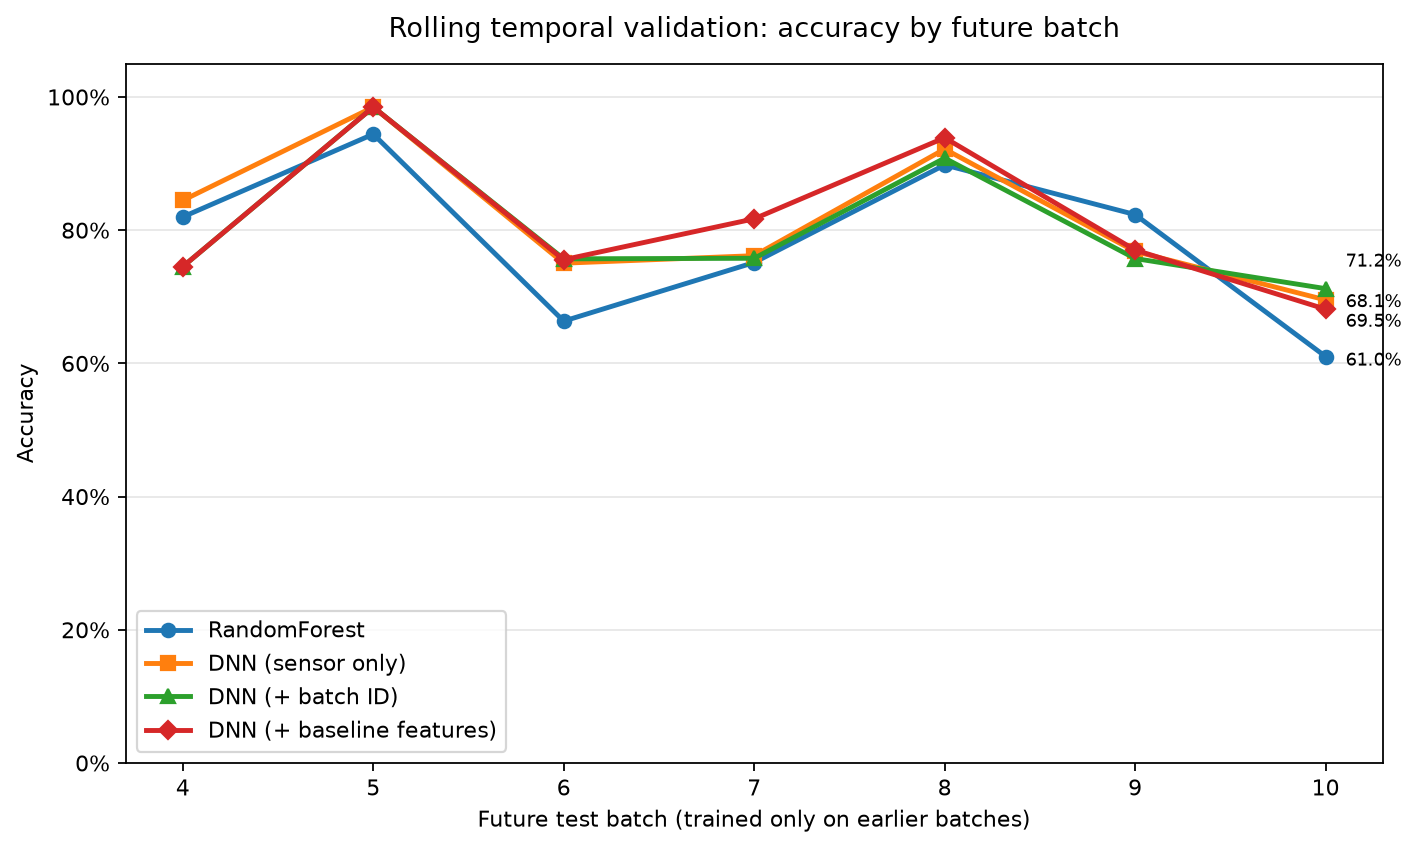
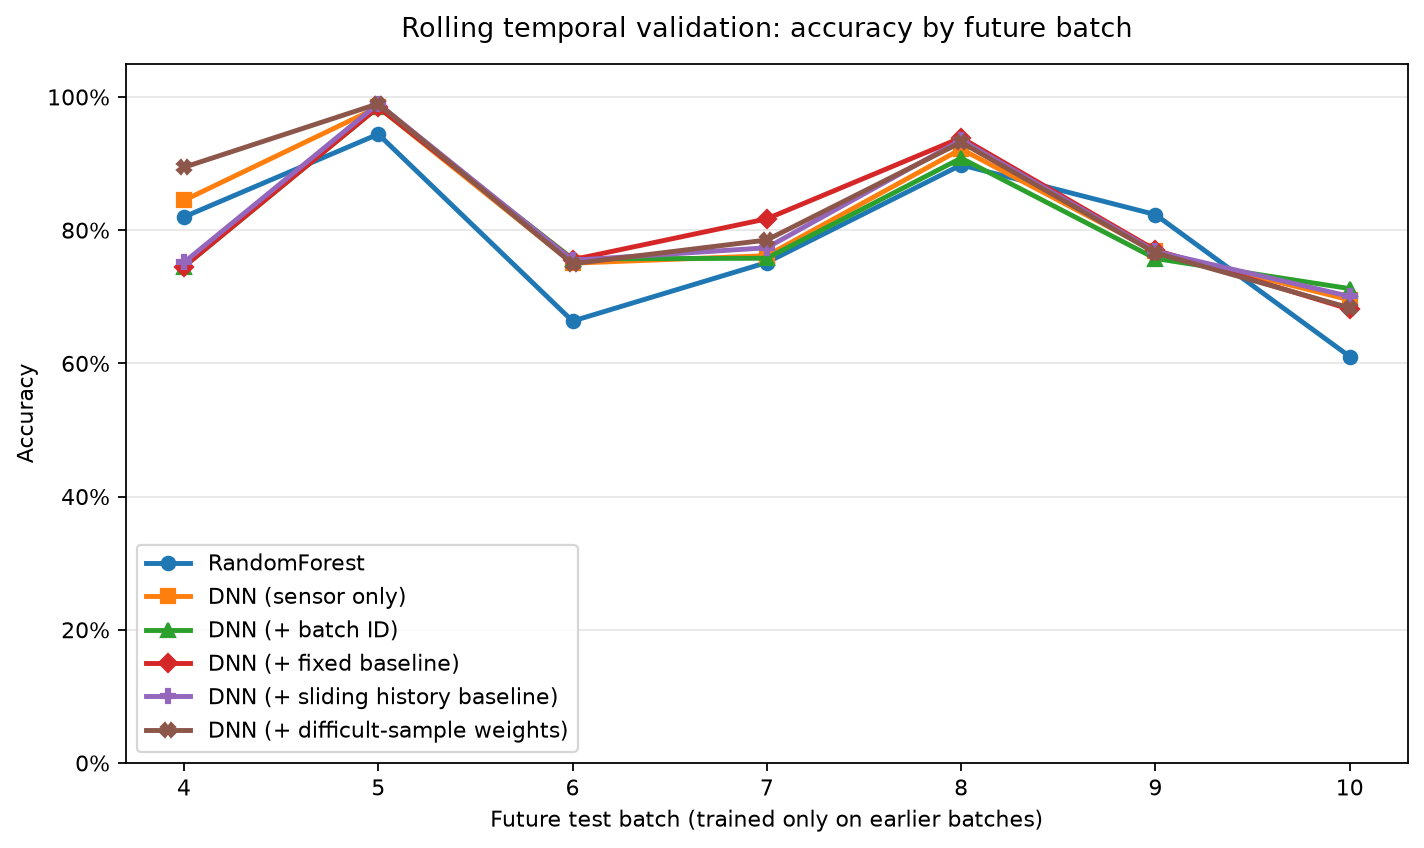
Add sliding baseline and weighted DNN experiments

diff --git a/run_drift_experiments.py b/run_drift_experiments.py
@@ -6,6 +6,10 @@ Models:
   dnn_sensor_time  MLP using sensor features plus known batch/time feature
   dnn_sensor_baseline  MLP using raw features plus changes relative to the
                        earliest available sensor baseline
+  dnn_sensor_history_baseline  MLP using raw features plus a sliding baseline
+                               calculated only from earlier historical batches
+  dnn_sensor_weighted  MLP that upweights difficult gases and low-concentration
+                       training samples
 
 The test batches are never included in model fitting or scaler fitting.
 """
@@ -23,6 +27,8 @@ from sklearn.preprocessing import StandardScaler
 
 FEATURES = [f"feature_{i}" for i in range(1, 129)]
 GAS_NAMES = ["Ethanol", "Ethylene", "Ammonia", "Acetaldehyde", "Acetone", "Toluene"]
+DIFFICULT_GASES = {"Ethylene", "Acetone", "Toluene"}
+LOW_CONCENTRATION_PPM = 50.0
 
 def make_model(kind: str):
     if kind == "rf_sensor":
@@ -34,7 +40,33 @@ def make_model(kind: str):
                                max_iter=300, random_state=42))
     ])
 
-def select_x(frame: pd.DataFrame, kind: str, baseline: pd.Series | None = None) -> pd.DataFrame:
+def sliding_history_relative(frame: pd.DataFrame, history: pd.DataFrame, window: int) -> pd.DataFrame:
+    """Return per-sample changes against a baseline from earlier batches only.
+
+    For Batch b, the baseline is the feature-wise median of the latest
+    ``window`` batches strictly earlier than b.  For the first available
+    training batch, its own median is used only as a fallback so feature values
+    remain finite.  Test-batch rows never contribute to any baseline.
+    """
+    if window < 1:
+        raise ValueError("history window must be at least 1")
+    fallback = history.loc[history.batch_id == history.batch_id.min(), FEATURES].median()
+    relative_parts = []
+    for batch in sorted(frame.batch_id.unique()):
+        available = sorted(history.loc[history.batch_id < batch, "batch_id"].unique())
+        chosen = available[-window:]
+        baseline = history.loc[history.batch_id.isin(chosen), FEATURES].median() if chosen else fallback
+        safe_baseline = baseline.replace(0, 1e-8)
+        current = frame.loc[frame.batch_id == batch, FEATURES]
+        relative = current.divide(safe_baseline, axis="columns").subtract(1.0)
+        relative_parts.append(relative)
+    result = pd.concat(relative_parts).reindex(frame.index)
+    result.columns = [f"history_relative_{name}" for name in FEATURES]
+    return result
+
+
+def select_x(frame: pd.DataFrame, kind: str, baseline: pd.Series | None = None,
+             history: pd.DataFrame | None = None, history_window: int = 3) -> pd.DataFrame:
     x = frame[FEATURES].copy()
     if kind == "dnn_sensor_time":
         # Device age/batch is assumed known at inference. It is not fitted using test labels.
@@ -48,16 +80,38 @@ def select_x(frame: pd.DataFrame, kind: str, baseline: pd.Series | None = None) 
         relative = x.divide(safe_baseline, axis="columns").subtract(1.0)
         relative.columns = [f"relative_{name}" for name in FEATURES]
         x = pd.concat([x, relative], axis=1)
+    elif kind == "dnn_sensor_history_baseline":
+        if history is None:
+            raise ValueError("sliding history features require historical training batches")
+        x = pd.concat([x, sliding_history_relative(frame, history, history_window)], axis=1)
     return x
 
-def evaluate(train: pd.DataFrame, test: pd.DataFrame, kind: str, output: Path, tag: str) -> dict:
+
+def difficult_sample_weights(train: pd.DataFrame) -> np.ndarray:
+    """Training-only weights for the error-prone gases and low-ppm samples.
+
+    The rules are fixed before evaluation: Ethylene, Acetone and Toluene get a
+    factor of 2; samples at or below 50 ppm get a further factor of 1.5.  Test
+    labels are never used for fitting or for choosing these weights.
+    """
+    weights = np.ones(len(train), dtype=float)
+    weights[train.gas_name.isin(DIFFICULT_GASES).to_numpy()] *= 2.0
+    weights[(train.concentration_ppm <= LOW_CONCENTRATION_PPM).to_numpy()] *= 1.5
+    return weights
+
+def evaluate(train: pd.DataFrame, test: pd.DataFrame, kind: str, output: Path, tag: str,
+             history_window: int) -> dict:
     model = make_model(kind)
     baseline = None
     if kind == "dnn_sensor_baseline":
         earliest_batch = train.batch_id.min()
         baseline = train.loc[train.batch_id == earliest_batch, FEATURES].median()
-    model.fit(select_x(train, kind, baseline), train["gas_name"])
-    pred = model.predict(select_x(test, kind, baseline))
+    x_train = select_x(train, kind, baseline, history=train, history_window=history_window)
+    if kind == "dnn_sensor_weighted":
+        model.fit(x_train, train["gas_name"], mlp__sample_weight=difficult_sample_weights(train))
+    else:
+        model.fit(x_train, train["gas_name"])
+    pred = model.predict(select_x(test, kind, baseline, history=train, history_window=history_window))
     row = {
         "experiment": tag, "model": kind,
         "train_batches": ",".join(map(str, sorted(train.batch_id.unique()))),
@@ -68,6 +122,9 @@ def evaluate(train: pd.DataFrame, test: pd.DataFrame, kind: str, output: Path, t
     }
     recalls = recall_score(test.gas_name, pred, labels=GAS_NAMES, average=None, zero_division=0)
     row.update({f"recall_{gas}": float(v) for gas, v in zip(GAS_NAMES, recalls)})
+    low_mask = test.concentration_ppm <= LOW_CONCENTRATION_PPM
+    row["low_ppm_n"] = int(low_mask.sum())
+    row["low_ppm_accuracy"] = accuracy_score(test.loc[low_mask, "gas_name"], pred[low_mask]) if low_mask.any() else np.nan
     cm = pd.DataFrame(confusion_matrix(test.gas_name, pred, labels=GAS_NAMES), index=GAS_NAMES, columns=GAS_NAMES)
     cm.to_csv(output / f"confusion_{tag}_{kind}_batch{row['test_batch']}.csv", encoding="utf-8-sig")
 
@@ -79,7 +136,8 @@ def evaluate(train: pd.DataFrame, test: pd.DataFrame, kind: str, output: Path, t
     row["concentration_r2"] = r2_score(test.concentration_ppm, concentration_pred)
     return row
 
-def main(csv_path: Path, output: Path, selected_models: list[str], experiments: list[str], test_batches: list[int]) -> None:
+def main(csv_path: Path, output: Path, selected_models: list[str], experiments: list[str], test_batches: list[int],
+         history_window: int) -> None:
     output.mkdir(parents=True, exist_ok=True)
     df = pd.read_csv(csv_path, encoding="utf-8-sig")
     required = {"batch_id", "gas_name", "concentration_ppm", *FEATURES}
@@ -91,12 +149,12 @@ def main(csv_path: Path, output: Path, selected_models: list[str], experiments: 
     if "fixed" in experiments:
         for test_batch in test_batches:
             train, test = df[df.batch_id.isin([1, 2, 3])], df[df.batch_id == test_batch]
-            for model in models: results.append(evaluate(train, test, model, output, "fixed_1to3"))
+            for model in models: results.append(evaluate(train, test, model, output, "fixed_1to3", history_window))
     # Rolling experiment: all available history -> next unseen batch.
     if "rolling" in experiments:
         for test_batch in test_batches:
             train, test = df[df.batch_id < test_batch], df[df.batch_id == test_batch]
-            for model in models: results.append(evaluate(train, test, model, output, "rolling"))
+            for model in models: results.append(evaluate(train, test, model, output, "rolling", history_window))
     metrics = pd.DataFrame(results)
     metrics.to_csv(output / "cross_batch_metrics.csv", index=False, encoding="utf-8-sig")
     print(metrics[["experiment", "model", "test_batch", "accuracy", "macro_f1", "concentration_mae", "concentration_r2"]].to_string(index=False))
@@ -106,8 +164,10 @@ if __name__ == "__main__":
     ap = argparse.ArgumentParser()
     ap.add_argument("--csv", type=Path, default=Path(__file__).parent / "all_batches.csv")
     ap.add_argument("--output", type=Path, default=Path(__file__).parent / "drift_results")
-    ap.add_argument("--models", nargs="+", choices=["rf_sensor", "dnn_sensor", "dnn_sensor_time", "dnn_sensor_baseline"],
-                    default=["rf_sensor", "dnn_sensor", "dnn_sensor_time", "dnn_sensor_baseline"])
+    ap.add_argument("--models", nargs="+", choices=["rf_sensor", "dnn_sensor", "dnn_sensor_time", "dnn_sensor_baseline", "dnn_sensor_history_baseline", "dnn_sensor_weighted"],
+                    default=["rf_sensor", "dnn_sensor", "dnn_sensor_time", "dnn_sensor_baseline", "dnn_sensor_history_baseline", "dnn_sensor_weighted"])
     ap.add_argument("--experiments", nargs="+", choices=["fixed", "rolling"], default=["fixed", "rolling"])
     ap.add_argument("--test-batches", nargs="+", type=int, choices=range(4, 11), default=list(range(4, 11)))
-    args = ap.parse_args(); main(args.csv, args.output, args.models, args.experiments, args.test_batches)
+    ap.add_argument("--history-window", type=int, default=3,
+                    help="number of previous batches used for the sliding baseline (default: 3)")
+    args = ap.parse_args(); main(args.csv, args.output, args.models, args.experiments, args.test_batches, args.history_window)

diff --git a/plot_rolling_model_comparison.py b/plot_rolling_model_comparison.py
@@ -13,21 +13,19 @@ MODEL_COLUMNS = {
     "RandomForest": ("RF_准确率", "RF_macroF1"),
     "DNN (sensor only)": ("DNN传感器_准确率", "DNN传感器_macroF1"),
     "DNN (+ batch ID)": ("DNN传感器加批次号_准确率", "DNN传感器加批次号_macroF1"),
-    "DNN (+ baseline features)": ("DNN基线相对特征_准确率", "DNN基线相对特征_macroF1"),
+    "DNN (+ fixed baseline)": ("DNN固定基线_准确率", "DNN固定基线_macroF1"),
+    "DNN (+ sliding history baseline)": ("DNN滑动历史基线_准确率", "DNN滑动历史基线_macroF1"),
+    "DNN (+ difficult-sample weights)": ("DNN困难样本加权_准确率", "DNN困难样本加权_macroF1"),
 }
-MARKERS = ["o", "s", "^", "D"]
+MARKERS = ["o", "s", "^", "D", "P", "X"]
 
 
 def draw(metric_index: int, title: str, y_label: str, filename: str) -> None:
     df = pd.read_csv(DATA, encoding="utf-8-sig")
     fig, ax = plt.subplots(figsize=(9, 5.4), dpi=160)
-    final_label_offsets = [-2, -10, 12, 3]
-    for ((name, columns), marker, offset) in zip(MODEL_COLUMNS.items(), MARKERS, final_label_offsets):
+    for ((name, columns), marker) in zip(MODEL_COLUMNS.items(), MARKERS):
         values = df[columns[metric_index]]
         ax.plot(df["测试批次"], values, marker=marker, linewidth=2.2, markersize=6, label=name)
-        # Directly label the final batch so the most important future-test result is visible.
-        ax.annotate(f"{values.iloc[-1]:.1%}", (df["测试批次"].iloc[-1], values.iloc[-1]),
-                    xytext=(9, offset), textcoords="offset points", va="center", fontsize=8)
 
     ax.set_title(title, pad=12)
     ax.set_xlabel("Future test batch (trained only on earlier batches)")

diff --git a/当前研究进度与任务清单.md b/当前研究进度与任务清单.md
@@ -33,3 +33,15 @@
 - 本地缓存的 `origin/main` 位于提交 `1140041`，包含时序漂移实验和 DNN 评估。
 - 本次尝试拉取 GitHub 时网络无法连接 GitHub 443 端口，故无法确认远端是否刚出现新提交。
 - 若组员已完成代码、图表或报告，请其在自己的电脑执行 `git add`、`git commit`、`git push` 到 `main`，或提交 Pull Request；推送成功后即可被同步和纳入下一轮分析。
+
+## 5. 报告可用核心结论（保留）
+
+实验表明，传感器阵列数据存在显著的跨批次分布变化，导致传统随机划分下的高准确率无法反映未来批次识别性能。引入滑动历史基线校准后，模型在部分后期批次有所改善，Batch 10 准确率由普通 DNN 的 69.5% 提升至 70.1%；但增益不稳定，表明时序漂移具有复杂的类别相关特征。后续将围绕困难气体类别和低浓度样本，研究自适应融合与加权训练方法。
+
+该项目的核心并非单纯寻找最高准确率模型，而是建立“数据处理—跨时序测试—错误定位—抗漂移改进—公平验证”的研究流程，定量说明传感器时序漂移如何导致模型退化，以及改进方法能缓解到何种程度。
+
+## 6. 第二项改进实验：困难气体与低浓度加权
+
+对乙烯、丙酮、甲苯训练样本设置 2 倍权重，并对浓度不高于 50 ppm 的训练样本额外设置 1.5 倍权重。完整的 Batch 4--10 滚动验证显示：该初始权重方案在部分批次（如 Batch 4、7）提高了指标，但在关键 Batch 10 中总体准确率从普通 DNN 的 69.5% 降至 68.3%，低浓度准确率也由 65.3% 降至 63.6%。甲苯召回率略升，但乙烯和丙酮没有改善。
+
+结论是：直接困难样本加权不足以稳定解决时序漂移下的类别边界问题。后续应将加权方法与滑动历史校准、特征融合或更细粒度的权重调参结合，而不能宣称该初始方案已提升鲁棒性。

diff --git a/滑动历史基线校准实验结果.md b/滑动历史基线校准实验结果.md
@@ -1,0 +1,36 @@
+# 滑动历史基线校准 DNN 实验结果
+
+## 方法
+
+新增模型 `dnn_sensor_history_baseline`。对每个 Batch b：
+
+- 只选择 b 之前最近 3 个历史 Batch；
+- 对每个 128 维传感器通道计算历史样本中位数，作为滑动基线；
+- 构造“原始特征 + 相对滑动基线变化量”共 256 维输入；
+- 预测 Batch b 时，基线只由 Batch 1 到 b-1 产生，未读取 Batch b 或未来批次的样本、标签或统计量。
+
+这比此前固定使用最早 Batch 作为基线更符合设备长期运行时“利用近期历史状态校准”的实际情况。
+
+## 滚动验证结果
+
+| 测试 Batch | 准确率 | Macro-F1 |
+|---:|---:|---:|
+| 4 | 75.2% | 64.5% |
+| 5 | 99.0% | 82.3% |
+| 6 | 75.5% | 64.9% |
+| 7 | 77.4% | 75.0% |
+| 8 | 93.5% | 93.1% |
+| 9 | 76.8% | 74.5% |
+| 10 | 70.1% | 70.3% |
+
+平均准确率为 **81.1%**，平均 Macro-F1 为 **74.9%**。
+
+## 与已有模型的比较
+
+- Batch 10：滑动历史基线 DNN 为 70.1%，高于普通 DNN（69.5%）和固定基线 DNN（68.1%），但低于 DNN + 批次号（71.2%）。
+- Batch 8：滑动历史基线为 93.5%，接近固定基线 DNN 的 93.9%，两者均高于普通 DNN。
+- Batch 7：滑动历史基线为 77.4%，优于普通 DNN（76.2%），但不及固定基线 DNN（81.7%）。
+
+## 结论
+
+滑动历史基线能够在部分后期批次改善模型表现，并使 Batch 10 相比普通 DNN 提升 0.5 个百分点；但其优势仍不稳定，尚不能作为最终抗漂移方案。该负结果同样具有研究价值：它说明仅依靠通道级历史中位数校准不足以完全恢复类别边界，下一步应测试困难类别加权训练与更强的自适应融合方法。

diff --git a/困难气体低浓度加权实验结果.md b/困难气体低浓度加权实验结果.md
@@ -1,0 +1,40 @@
+# 困难气体与低浓度加权 DNN 实验结果
+
+## 预先设定的训练权重
+
+仅在训练阶段使用样本权重：
+
+- 乙烯、丙酮、甲苯：权重乘以 2；
+- 浓度不高于 50 ppm 的样本：权重再乘以 1.5；
+- 同时满足两项的样本权重为 3；其他样本权重为 1。
+
+测试集不参与权重计算；验证仍严格使用“Batch 1--k-1 训练、Batch k 测试”。
+
+## 全批次结果
+
+| 测试 Batch | 准确率 | Macro-F1 |
+|---:|---:|---:|
+| 4 | 89.4% | 72.4% |
+| 5 | 99.0% | 82.3% |
+| 6 | 75.0% | 62.7% |
+| 7 | 78.5% | 77.9% |
+| 8 | 93.2% | 92.4% |
+| 9 | 76.6% | 75.1% |
+| 10 | 68.3% | 68.6% |
+
+## Batch 10 重点比较
+
+| 指标 | 普通 DNN | 加权 DNN | 变化 |
+|---|---:|---:|---:|
+| 总体准确率 | 69.5% | 68.3% | -1.2 个百分点 |
+| Macro-F1 | 69.8% | 68.6% | -1.2 个百分点 |
+| 乙烯召回率 | 39.5% | 38.8% | -0.7 个百分点 |
+| 丙酮召回率 | 45.7% | 43.7% | -2.0 个百分点 |
+| 甲苯召回率 | 79.0% | 81.5% | +2.5 个百分点 |
+| ≤50 ppm 准确率（1,100 个样本） | 65.3% | 63.6% | -1.6 个百分点 |
+
+## 结论
+
+初始权重方案没有稳定改善项目重点问题。虽然甲苯召回率略有提高，但乙烯、丙酮和低浓度样本均未改善，整体准确率与 Macro-F1 也下降。这说明直接提高困难样本的训练权重，可能使模型更偏向某些类别，反而损害了原本脆弱的类别边界。
+
+这一结果仍是有效研究结论：**困难类别加权不是充分的抗漂移方法，权重设置需进一步调参，或与滑动历史校准、特征融合结合后再测试。** 后续不应声称该方法已提升鲁棒性。
